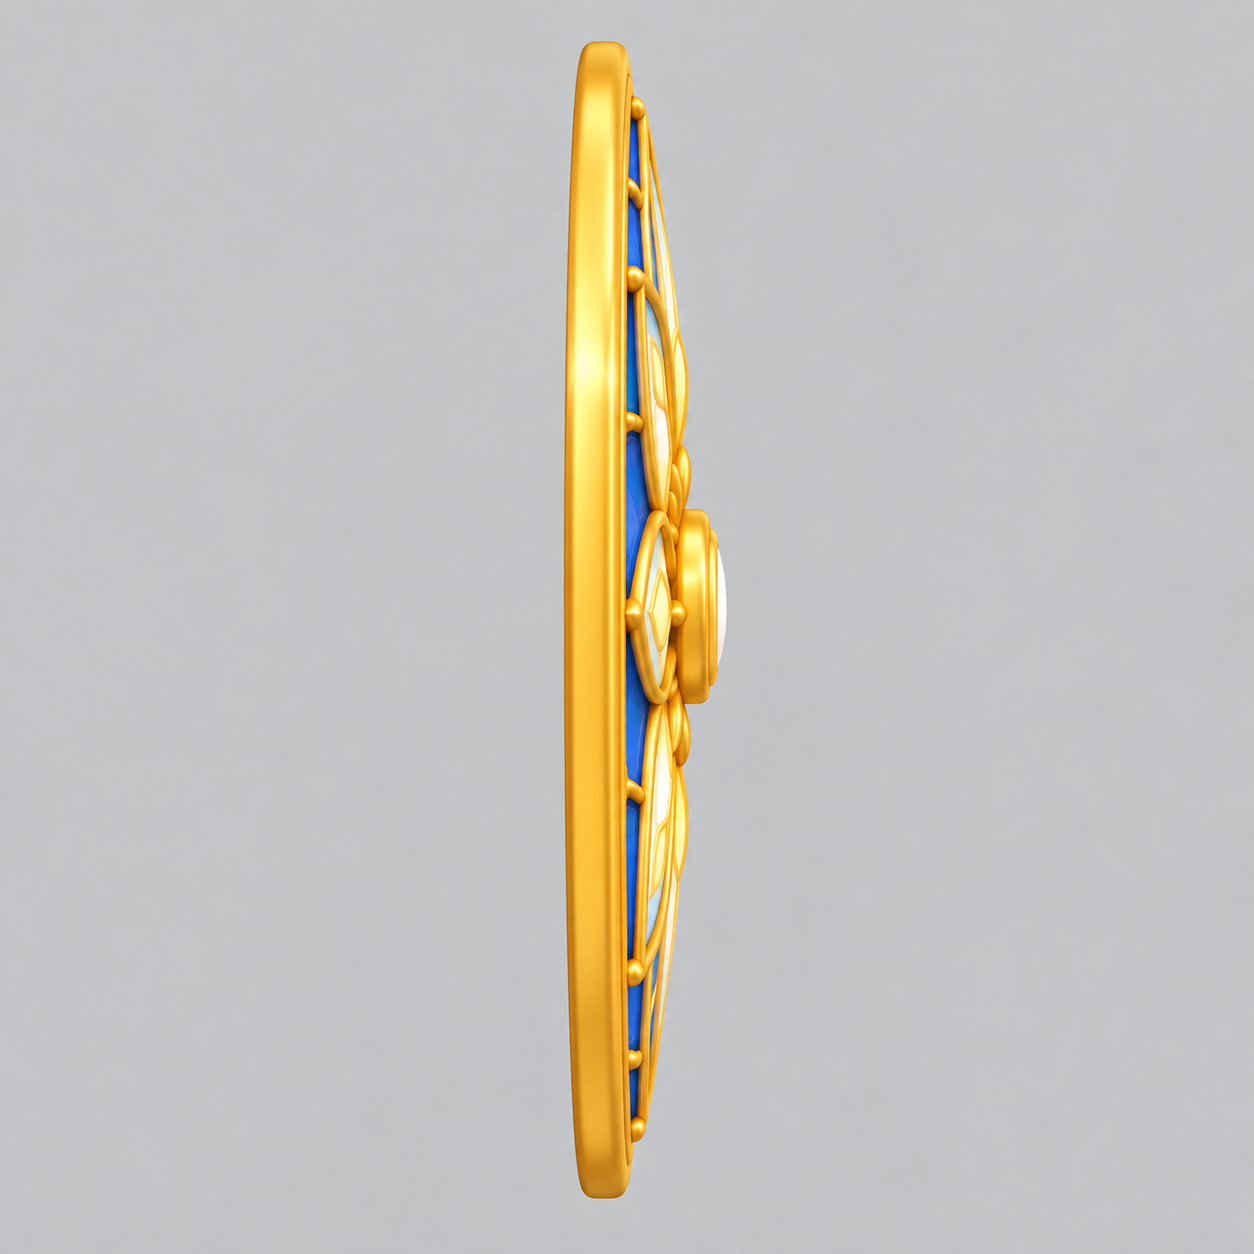
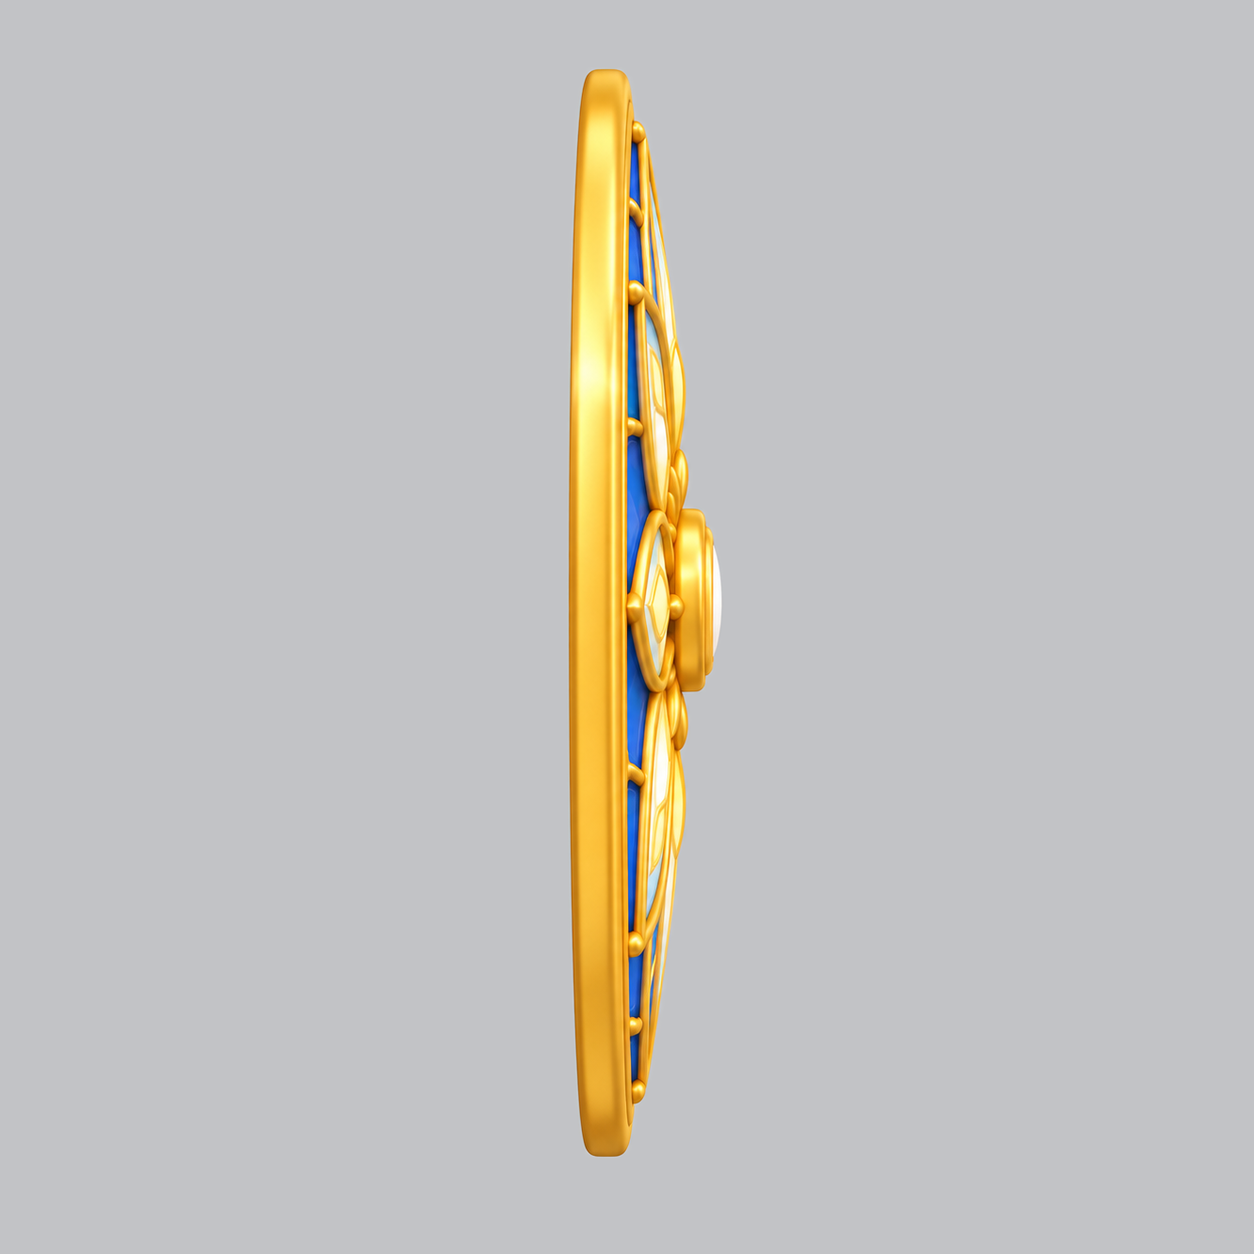
CastleRose 옆면 고침(right=left 뒤집기, 높이 맞춤) + 옆면 고침 도구

Changed region(s): [[0.4354, 0.0311, 0.5909, 0.9641]]

diff --git a/tools/_chunk_sidefix.py b/tools/_chunk_sidefix.py
@@ -1,0 +1,48 @@
+"""Fix chunk side views with PIL only (이미지 생성 2): right = mirror(left); both sides rescaled so the object height equals the front's, same vertical span as the front, same grey canvas.
+Usage: py tools/_chunk_sidefix.py <HaloChunk_Id>   (originals saved once in build/img2_next/pil_orig/)"""
+import os
+import sys
+
+import numpy as np
+from PIL import Image, ImageFilter, ImageOps
+
+D = os.path.join(os.path.dirname(os.path.dirname(os.path.abspath(__file__))), "art/out/s2/noshadow/chunks")
+
+
+def P(n, v):
+    return os.path.join(D, "%s_%s_ns.png" % (n, v))
+
+
+def mask(im, thr=28):
+    a = np.asarray(im).astype(int)
+    c = np.array([a[:8, :8].reshape(-1, 3).mean(0), a[:8, -8:].reshape(-1, 3).mean(0), a[-8:, :8].reshape(-1, 3).mean(0), a[-8:, -8:].reshape(-1, 3).mean(0)]).mean(0)
+    return Image.fromarray(((np.abs(a - c).max(2) > thr) * 255).astype("uint8")), tuple(int(x) for x in c)
+
+
+def main(n):
+    bk = os.path.join(os.path.dirname(D), "..", "..", "..", "build/img2_next/pil_orig")
+    bk = os.path.abspath(os.path.join(D, "../../../../build/img2_next/pil_orig"))
+    os.makedirs(bk, exist_ok=True)
+    front = Image.open(P(n, "front")).convert("RGB")
+    fb = mask(front)[0].getbbox()
+    fh = fb[3] - fb[1]
+    left = Image.open(P(n, "left")).convert("RGB")
+    for v in ("left", "right"):
+        b = os.path.join(bk, "%s_%s.png" % (n, v))
+        if not os.path.exists(b):
+            Image.open(P(n, v)).save(b)
+    m, c = mask(left)
+    m = m.filter(ImageFilter.MaxFilter(5)).filter(ImageFilter.GaussianBlur(2))
+    bb = m.point(lambda x: 255 if x > 128 else 0).getbbox()
+    obj, om = left.crop(bb), m.crop(bb)
+    size = (round(obj.width * fh / obj.height), fh)
+    obj, om = obj.resize(size, Image.LANCZOS), om.resize(size, Image.LANCZOS)
+    cv = Image.new("RGB", left.size, c)
+    cv.paste(obj, ((bb[0] + bb[2]) // 2 - size[0] // 2, fb[1]), om)
+    cv.save(P(n, "left"))
+    ImageOps.mirror(cv).save(P(n, "right"))
+    print(n, "height", fh, "span", fb[1], fb[3])
+
+
+if __name__ == "__main__":
+    main(sys.argv[1])

diff --git a/tools/_chunk_redo.py b/tools/_chunk_redo.py
@@ -25,7 +25,8 @@ def main():
     items = {i["id"]: i for i in json.load(open(Q, encoding="utf-8"))["items"]}
     for name in sys.argv[1:]:
         it = items[name]
-        refs = [os.path.join(R.ROOT, r["crop"]) for r in it["refs"] if r.get("crop")]
+        refs = [os.path.join(R.ROOT, r.get("crop") or r["image"]) for r in it["refs"]]
+        has_back = len(it["refs"]) > 1 and "back" in it["refs"][1]["image"]
         draw = it["draw"].split(" 3D note:")[0]
         front = os.path.join(OUT, "%s_front_ns.png" % name)
         if not os.path.exists(front):
@@ -36,7 +37,7 @@ def main():
             out = os.path.join(OUT, "%s_%s_ns.png" % (name, v))
             if os.path.exists(out):
                 continue
-            if v == "back" and len(refs) > 1:
+            if v == "back" and has_back:
                 rc = R.run(BACKREF % draw, [front, refs[1]], out)
             elif v == "back":
                 rc = R.run(OTHER % (draw, "BACK (opposite side to ref1)"), [front], out)
